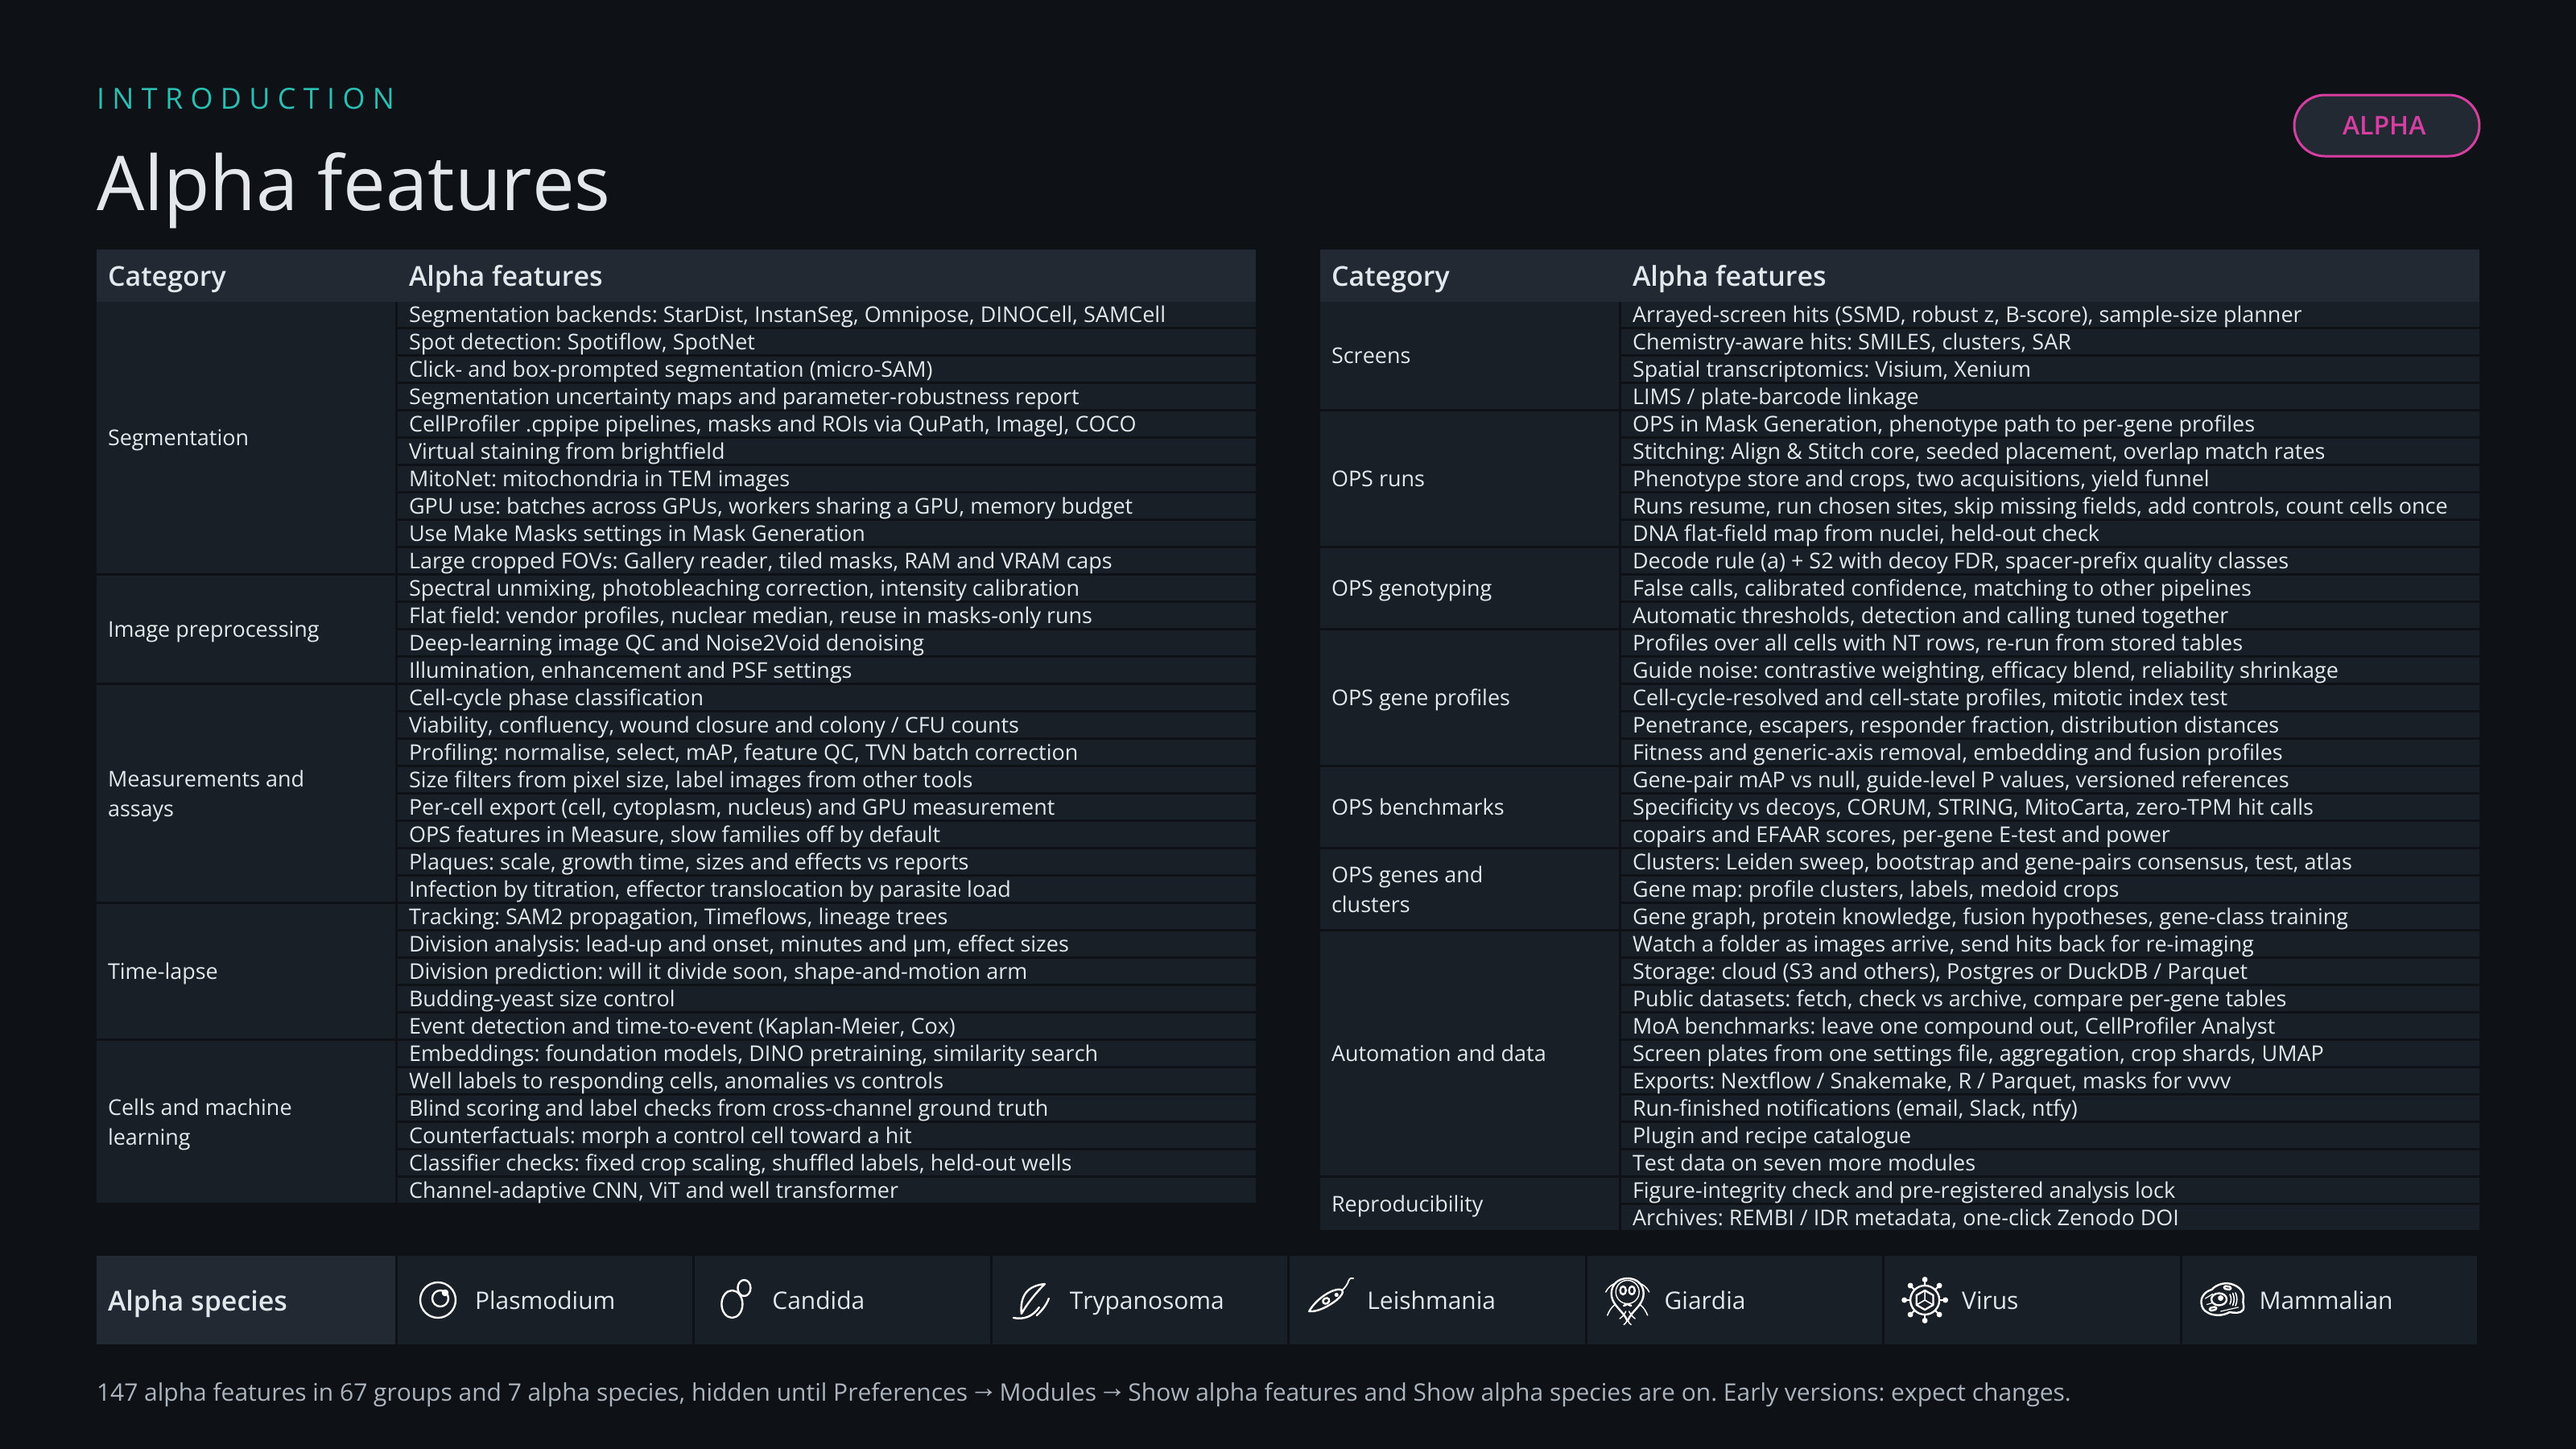
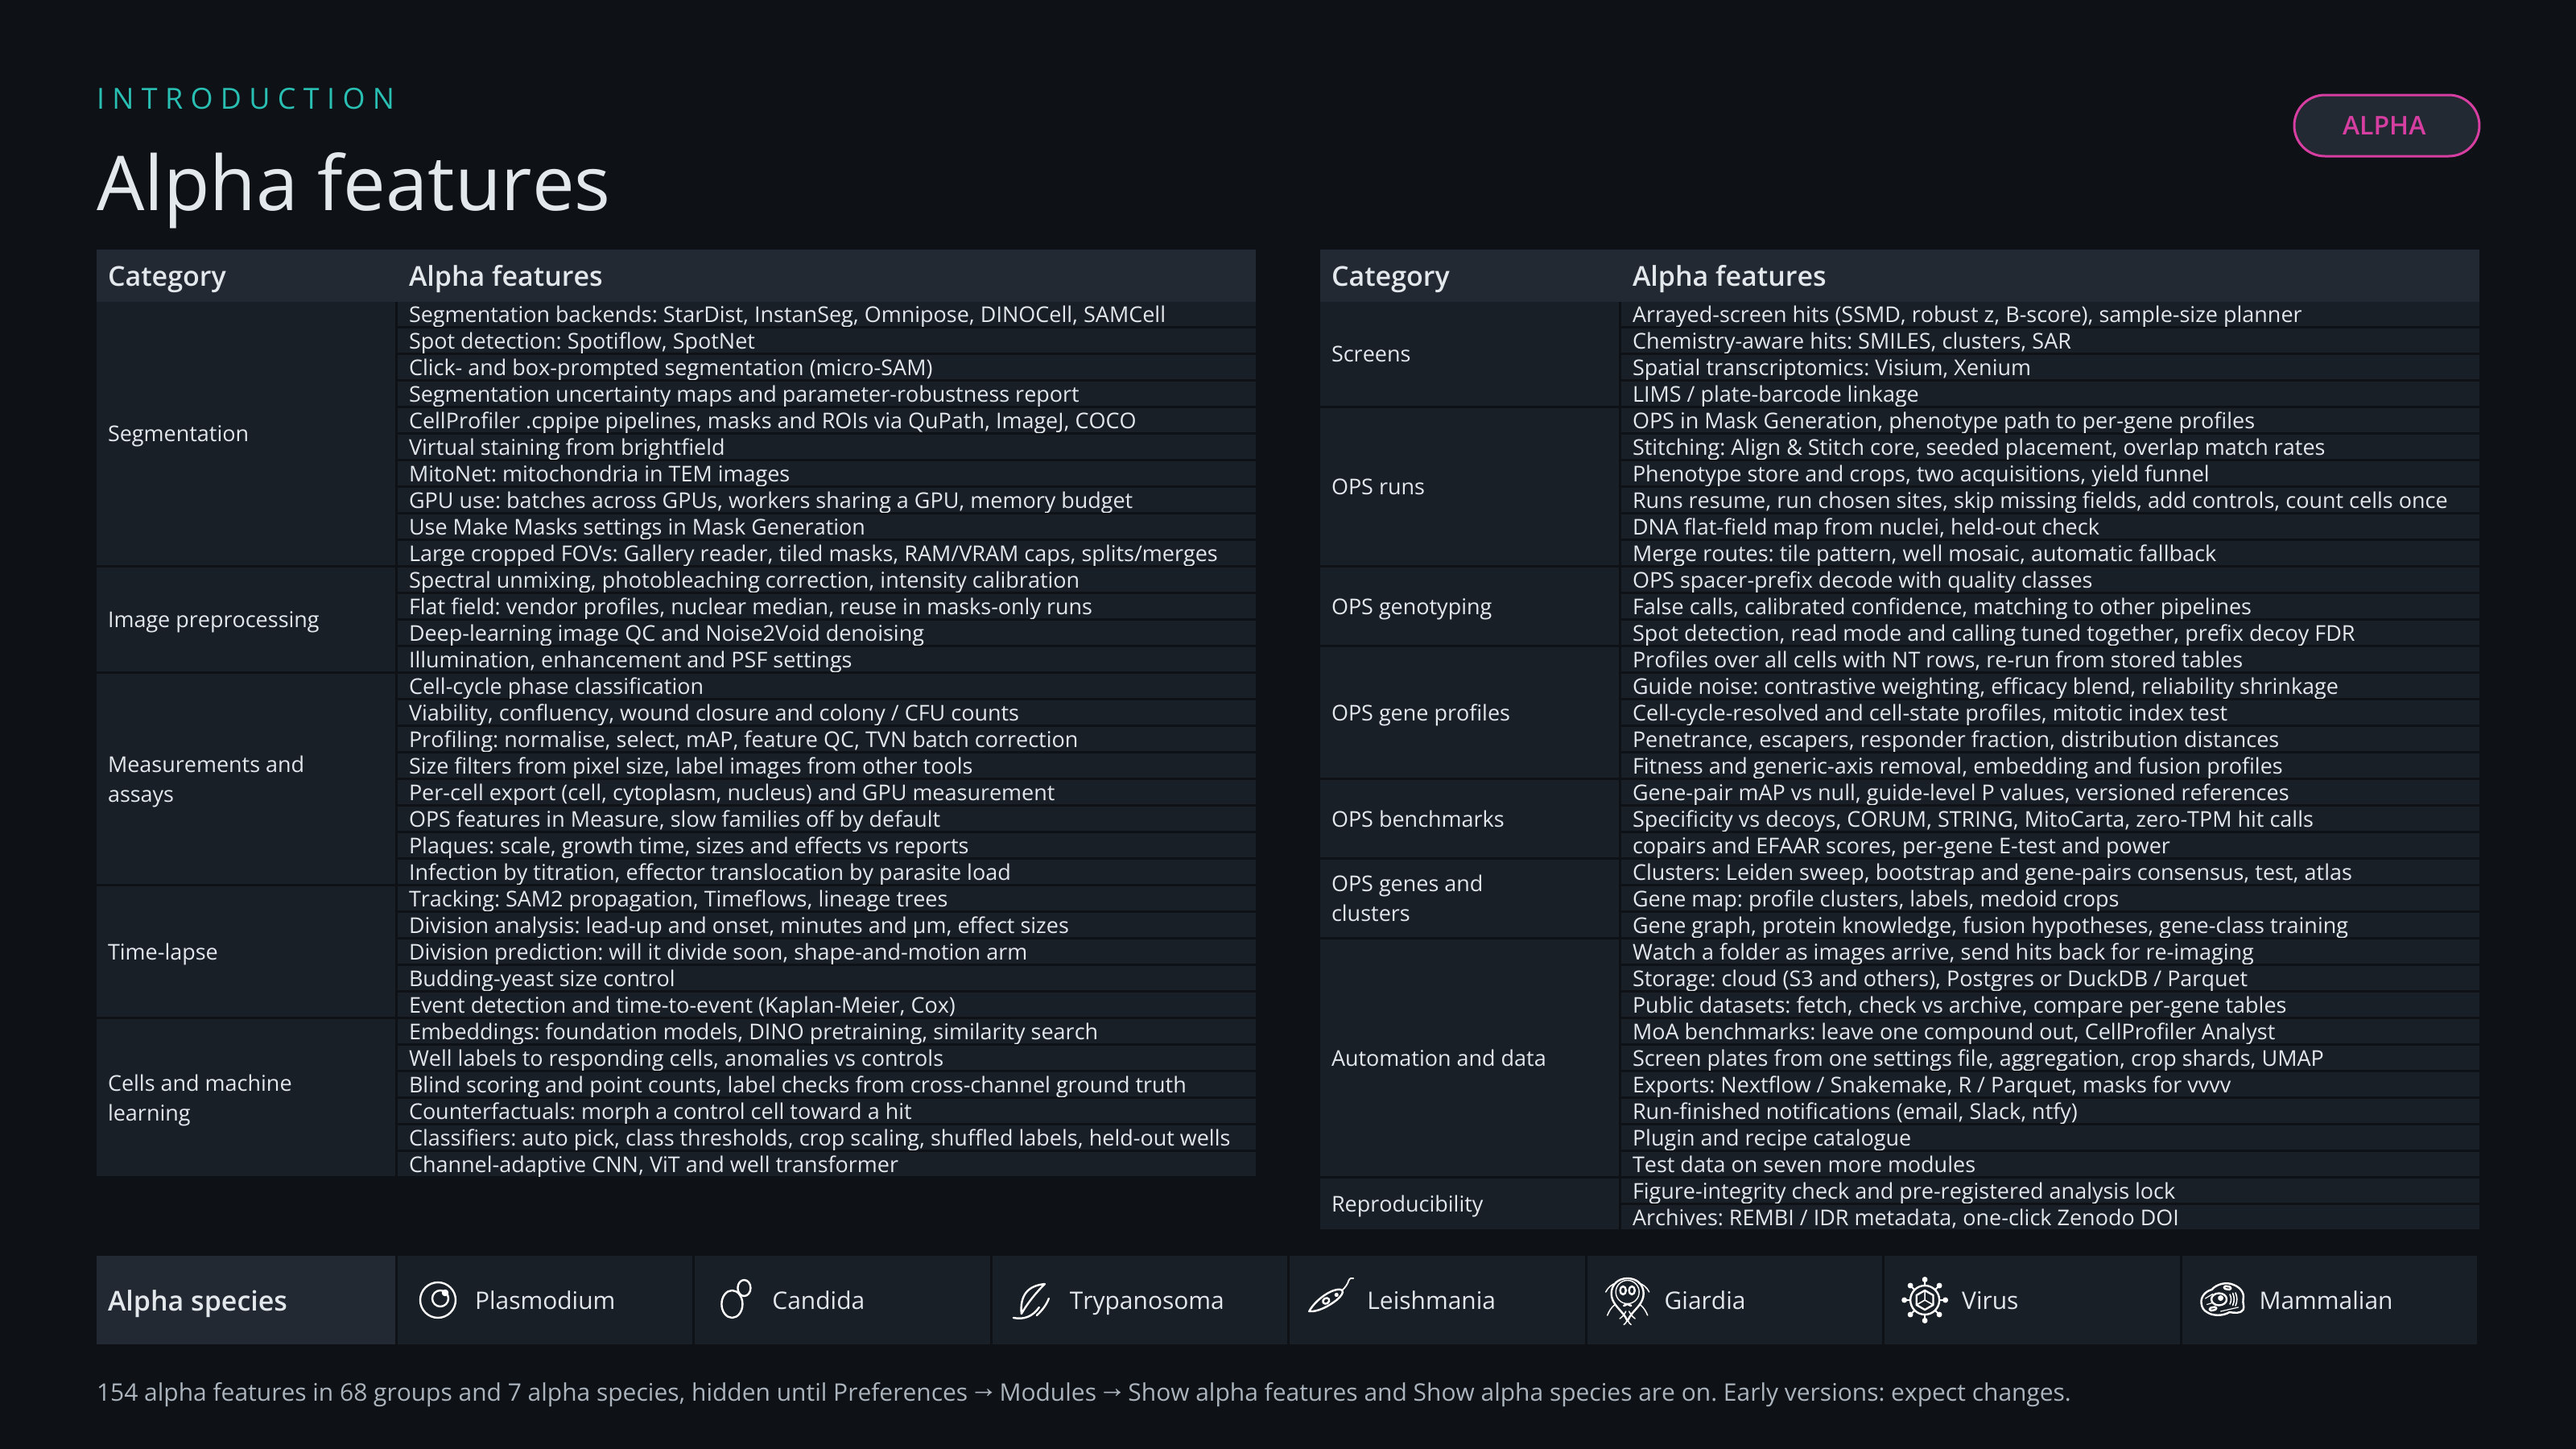
Publish the alpha deck slide for the 154-feature registry and the api_memory catalogs from nightly 8902d37a66, pin both revisions, and check the published footer against the registry count

diff --git a/tests/test_alpha_deck_registry.py b/tests/test_alpha_deck_registry.py
@@ -104,7 +104,8 @@ def test_the_published_alpha_page_covers_the_current_registry():
     # 2026-11-17: OPS objects windows resume (958) make 153.
     # 2026-11-17: the OPS merge routes with an automatic fallback (962)
     # make 154.
-    assert deck._check_registry(ROOT / "spacr/settings.py") == 154
+    count = deck._check_registry(ROOT / "spacr/settings.py")
+    assert count == 154
     # 710: the published PDF is fetched from the pinned dataset revision.
     media_spec = importlib.util.spec_from_file_location("fetch_docs_media", ROOT / "tools/fetch_docs_media.py")
     media = importlib.util.module_from_spec(media_spec)
@@ -113,7 +114,7 @@ def test_the_published_alpha_page_covers_the_current_registry():
     manifest = json.loads((ROOT / "docs/source/_static/deck/slides.json").read_text(encoding="utf-8"))
     assert manifest["count"] == len(pdf.pages) == len(manifest["slides"])
     titles = [slide["title"] for slide in manifest["slides"]]
-    # 2026-11-15: the 152 items are grouped into lines on one alpha slide.
+    # 2026-11-15: the alpha items are grouped into lines on one alpha slide.
     assert titles.count(deck.PUBLISHED_TITLE) == 1
     assert not any(title.startswith("Alpha features (") for title in titles)
     index = titles.index(deck.PUBLISHED_TITLE)
@@ -121,7 +122,7 @@ def test_the_published_alpha_page_covers_the_current_registry():
     assert deck.PUBLISHED_TITLE in page
     for _, name in deck.SPECIES:
         assert name in page
-    assert unicodedata.normalize("NFKC", deck._footer(152)).split("→")[0].strip() in page
+    assert unicodedata.normalize("NFKC", deck._footer(count)).split("→")[0].strip() in page
     missing = [text for _, lines in deck.GROUPS for text, _ in lines
                if " ".join(unicodedata.normalize("NFKC", text).split()) not in page]
     assert missing == [], "every alpha line is on the published slide"
